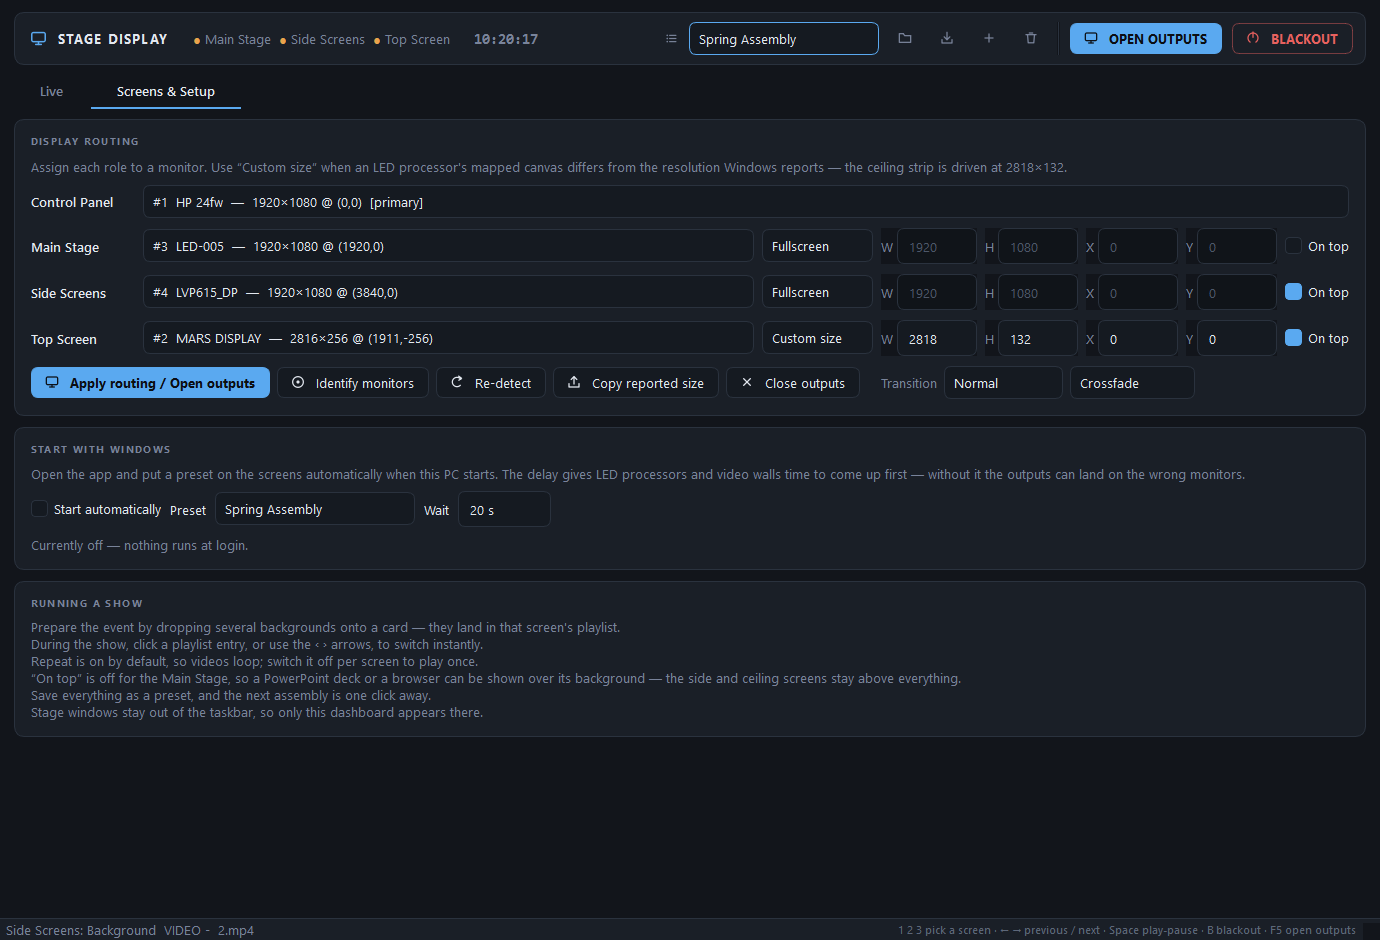
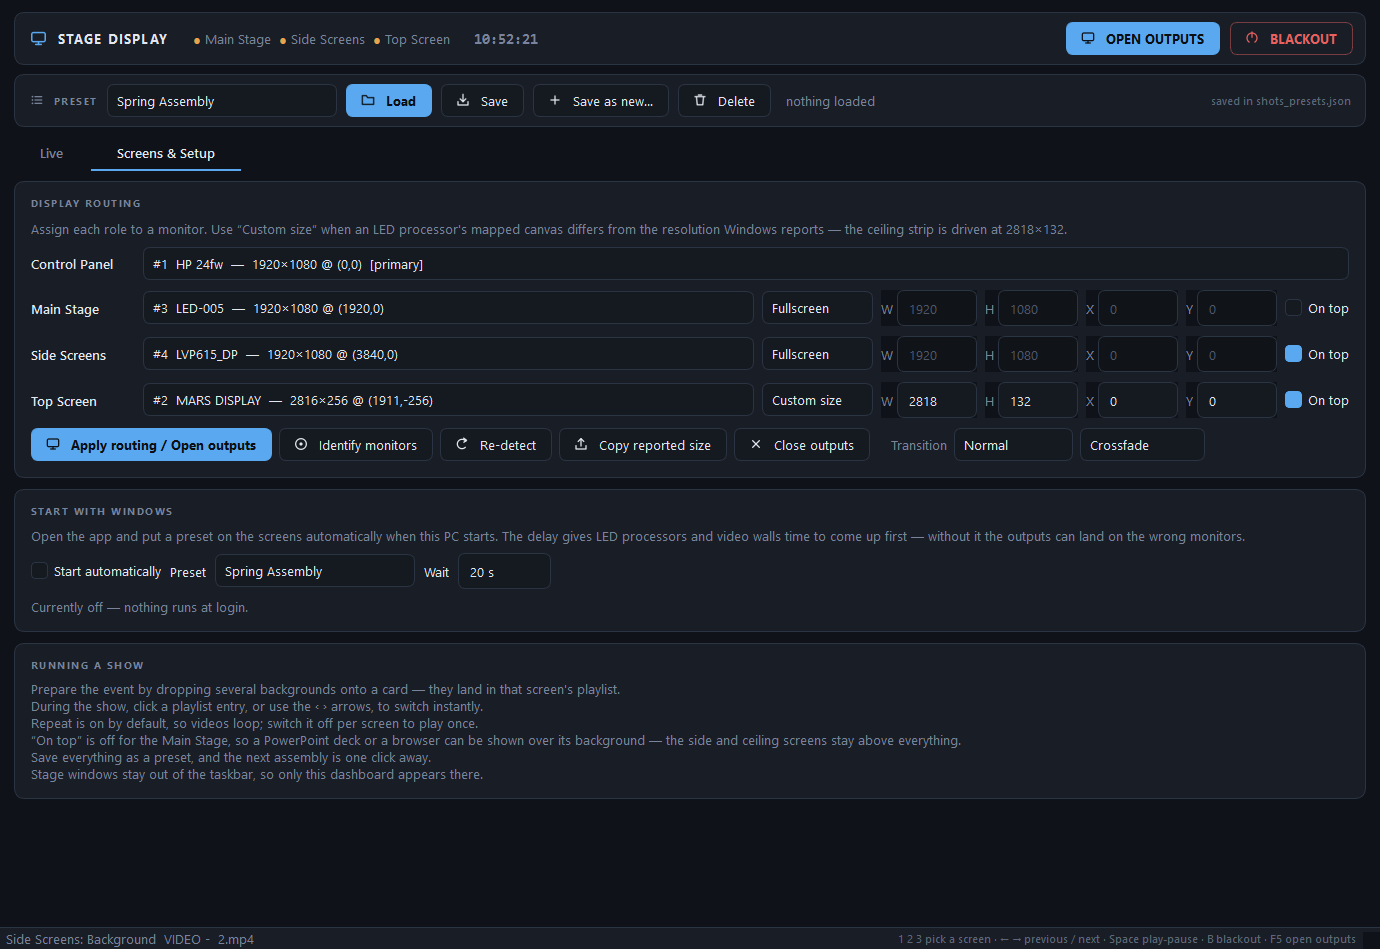
Transition when a preset is loaded, and make the preset controls legible
Loading a preset cut hard to the new pictures. _restore_media_to_outputs()
called load_media(), which is the no-transition path, so the one moment the
whole stage changes at once was the one moment nothing faded. It now uses the
chosen transition - except on a screen whose window has only just been opened,
where there is no previous picture to dissolve from.

Two bugs found on the way there, both of which also cost quality on stage:

- _ensure_output() called set_always_on_top() unconditionally, and that always
  ran setWindowFlags(), which destroys and recreates the native window. So every
  Apply rebuilt all three stage windows - a visible flicker mid-show, and it
  wiped the rendered content a crossfade needs to snapshot. It is now a no-op
  when the flag already matches, and show_with_geometry() likewise returns early
  when the window is already exactly where it is being asked to go.
- The test suites shared QSettings with the real app, so a test run could
  silently rewrite the operator's transition preference. Scope names are module
  constants now and every suite overrides them.

Presets used to be four unlabelled icons in the header: no way to tell which one
loaded and which overwrote, or what was on the screens. They get their own row
with worded buttons and a state line - "Fonebi is on the screens" in green, or
"Fonebi - changed, not saved" in amber once anything is touched.

Also a general pass on the theme: deeper ground so cards separate from it,
[…]

diff --git a/main.py b/main.py
@@ -217,6 +217,11 @@ DEFAULT_TOP_HEIGHT = 132
 FADE_PRESETS = (("Off (hard cut)", 0), ("Fast", 240), ("Normal", 500), ("Slow", 1000))
 DEFAULT_FADE_MS = 500
 
+# QSettings scope. Tests override these so a test run cannot rewrite the
+# operator's real preferences.
+SETTINGS_ORG = "StageDisplayController"
+SETTINGS_APP = "StageDisplayController"
+
 TRANSITION_CROSSFADE = "crossfade"
 TRANSITION_DIP = "dip"
 TRANSITION_STYLES = (
@@ -225,11 +230,11 @@ TRANSITION_STYLES = (
 )
 
 # Palette - a quiet, low-contrast dark theme so the stage stays the bright thing.
-CLR_BG = "#12151b"
-CLR_CARD = "#1a1f27"
+CLR_BG = "#0f1218"
+CLR_CARD = "#191e26"
 CLR_INPUT = "#151a21"
 CLR_HOVER = "#242b36"
-CLR_LINE = "#2a323e"
+CLR_LINE = "#2b3442"
 CLR_TEXT = "#e3e8f0"
 CLR_MUTED = "#79839a"
 CLR_ACCENT = "#5aa9f0"
@@ -926,7 +931,7 @@ QFrame#card, QFrame#bar {{
 /* The card the keyboard acts on. */
 QFrame#card[active="true"] {{
     border: 1px solid {CLR_ACCENT};
-    background: #1c222c;
+    background: #1b2230;
 }}
 QLabel#cardTitle {{ font-size: 14px; font-weight: 700; }}
 QLabel#cardHint {{ color: {CLR_MUTED}; }}
@@ -934,8 +939,9 @@ QLabel#sectionTitle {{
     color: {CLR_MUTED};
     font-size: 10px;
     font-weight: 700;
-    letter-spacing: 1.4px;
+    letter-spacing: 1.5px;
 }}
+QLabel#cardSub {{ color: {CLR_MUTED}; font-size: 11px; }}
 QLabel#brand {{ font-size: 13px; font-weight: 800; letter-spacing: 1.2px; }}
 QLabel#clock {{
     color: {CLR_MUTED};
@@ -978,7 +984,7 @@ QPushButton {{
     background: {CLR_INPUT};
     border: 1px solid {CLR_LINE};
     border-radius: 7px;
-    padding: 6px 12px;
+    padding: 7px 13px;
 }}
 QPushButton:hover {{ background: {CLR_HOVER}; border-color: #3b4657; }}
 QPushButton:pressed {{ background: #11151b; }}
@@ -1385,9 +1391,14 @@ class BaseOutputWindow(QWidget):
         whole monitor. A custom rectangle is what makes LED walls work when
         Windows reports a resolution that differs from the mapped canvas.
         """
+        target = rect if rect is not None else screen.geometry()
+        if (self.isVisible() and self._screen is screen and self._geometry == rect
+                and self.geometry() == target):
+            self.raise_()      # already exactly here; re-showing would only flicker
+            return
+
         self._screen = screen
         self._geometry = rect
-        target = rect if rect is not None else screen.geometry()
 
         # Leaving fullscreen first makes a cross-monitor move reliable on Windows.
         if self.isFullScreen() or self.isVisible():
@@ -1409,6 +1420,8 @@ class BaseOutputWindow(QWidget):
         flags = self.BASE_FLAGS
         if on_top:
             flags |= Qt.WindowStaysOnTopHint
+        if flags == self.windowFlags():
+            return   # setWindowFlags would destroy and rebuild the window for nothing
         was_visible = self.isVisible()
 
         # setWindowFlags destroys and recreates this window, which leaves the
@@ -2167,7 +2180,7 @@ class OutputCard(QFrame):
         name = QLabel(title)
         name.setObjectName("cardTitle")
         hint = QLabel(subtitle)
-        hint.setObjectName("cardHint")
+        hint.setObjectName("cardSub")
         title_box.addWidget(name)
         title_box.addWidget(hint)
         header.addLayout(title_box)
@@ -2915,13 +2928,17 @@ class ControlPanel(QMainWindow):
         self.routing_rows: Dict[str, RoutingRow] = {}
         self.presets = PresetStore()
         self.active_role = ROLE_MAIN
-        self.settings = QSettings("StageDisplayController", "StageDisplayController")
+        self.settings = QSettings(SETTINGS_ORG, SETTINGS_APP)
+        self._freshly_opened: set = set()
+        self.loaded_preset: Optional[str] = None
+        self._preset_dirty = False
 
         central = QWidget()
         root = QVBoxLayout(central)
         root.setContentsMargins(14, 12, 14, 8)
         root.setSpacing(9)
         root.addWidget(self._build_header())
+        root.addWidget(self._build_preset_bar())
 
         self.tabs = QTabWidget()
         self.tabs.addTab(self._build_live_tab(), "  Live  ")
@@ -2938,6 +2955,7 @@ class ControlPanel(QMainWindow):
         self._refresh_preset_combo()
         self._load_fade_setting()
         self._load_autostart_state()
+        self._describe_preset_state()
         self._update_output_status()
         self._install_shortcuts()
         self.set_active_role(ROLE_MAIN)
@@ -2988,33 +3006,6 @@ class ControlPanel(QMainWindow):
 
         layout.addStretch(1)
 
-        # --- presets ------------------------------------------------------- #
-        preset_label = QLabel()
-        preset_label.setPixmap(Icons.get("list", CLR_MUTED, 15).pixmap(15, 15))
-        preset_label.setToolTip("Presets")
-        layout.addWidget(preset_label)
-
-        self.preset_combo = QComboBox()
-        self.preset_combo.setMinimumWidth(190)
-        self.preset_combo.setToolTip("Saved show presets")
-        layout.addWidget(self.preset_combo)
-
-        for icon_name, tip, handler in (
-            ("folder", "Load the selected preset", self._load_preset),
-            ("save", "Save / overwrite the selected preset", self._save_preset),
-            ("plus", "Save the current setup as a new preset", self._save_preset_as),
-            ("trash", "Delete the selected preset", self._delete_preset),
-        ):
-            button = icon_button(icon_name, tip, CLR_MUTED, 16)
-            button.setObjectName("ghost")
-            button.clicked.connect(handler)
-            layout.addWidget(button)
-
-        separator = QFrame()
-        separator.setFrameShape(QFrame.VLine)
-        separator.setStyleSheet(f"color: {CLR_LINE};")
-        layout.addWidget(separator)
-
         # --- global actions ------------------------------------------------ #
         open_btn = QPushButton("  OPEN OUTPUTS")
         open_btn.setObjectName("primary")
@@ -3032,6 +3023,87 @@ class ControlPanel(QMainWindow):
         # "Close outputs" deliberately lives on the Screens tab: an X in the
         # header corner reads like "quit the app" during a show.
         return bar
+
+    def _build_preset_bar(self) -> QWidget:
+        """
+        Presets get their own labelled row.
+
+        As four unlabelled icons in the header this was guesswork - which one
+        loads, which one overwrites, and what is on the screens right now. Words
+        and a state line answer all three.
+        """
+        bar = QFrame()
+        bar.setObjectName("bar")
+        layout = QHBoxLayout(bar)
+        layout.setContentsMargins(14, 9, 14, 9)
+        layout.setSpacing(9)
+
+        glyph = QLabel()
+        glyph.setPixmap(Icons.get("list", CLR_MUTED, 16).pixmap(16, 16))
+        layout.addWidget(glyph)
+
+        caption = QLabel("PRESET")
+        caption.setObjectName("sectionTitle")
+        layout.addWidget(caption)
+
+        self.preset_combo = QComboBox()
+        self.preset_combo.setMinimumWidth(230)
+        self.preset_combo.setToolTip("Saved setups: routing, playlists, marquee, volumes")
+        layout.addWidget(self.preset_combo)
+
+        load_btn = QPushButton("  Load")
+        load_btn.setObjectName("primary")
+        load_btn.setIcon(Icons.get("folder", "#0b0e13", 15))
+        load_btn.setToolTip("Put the selected preset on the screens")
+        load_btn.clicked.connect(self._load_preset)
+        layout.addWidget(load_btn)
+
+        save_btn = QPushButton("  Save")
+        save_btn.setIcon(Icons.get("save", CLR_TEXT, 15))
+        save_btn.setToolTip("Overwrite the selected preset with what is set up now")
+        save_btn.clicked.connect(self._save_preset)
+        layout.addWidget(save_btn)
+
+        new_btn = QPushButton("  Save as new…")
+        new_btn.setIcon(Icons.get("plus", CLR_TEXT, 15))
+        new_btn.setToolTip("Store the current setup under a new name")
+        new_btn.clicked.connect(self._save_preset_as)
+        layout.addWidget(new_btn)
+
+        delete_btn = QPushButton("  Delete")
+        delete_btn.setIcon(Icons.get("trash", CLR_TEXT, 15))
+        delete_btn.setToolTip("Remove the selected preset")
+        delete_btn.clicked.connect(self._delete_preset)
+        layout.addWidget(delete_btn)
+
+        layout.addSpacing(6)
+        self.preset_state = QLabel()
+        self.preset_state.setObjectName("cardHint")
+        layout.addWidget(self.preset_state)
+
+        layout.addStretch(1)
+        where = QLabel(f"saved in {os.path.basename(PRESET_FILE)}")
+        where.setObjectName("keyHint")
+        where.setToolTip(PRESET_FILE)
+        layout.addWidget(where)
+        return bar
+
+    def _mark_preset_dirty(self) -> None:
+        if not self._preset_dirty:
+            self._preset_dirty = True
+            self._describe_preset_state()
+
+    def _describe_preset_state(self) -> None:
+        if self.loaded_preset is None:
+            self.preset_state.setText("nothing loaded")
+            self.preset_state.setStyleSheet(f"color: {CLR_MUTED};")
+            return
+        if self._preset_dirty:
+            self.preset_state.setText(f"●  {self.loaded_preset} — changed, not saved")
+            self.preset_state.setStyleSheet(f"color: {CLR_WARN}; font-weight: 600;")
+        else:
+            self.preset_state.setText(f"●  {self.loaded_preset} is on the screens")
+            self.preset_state.setStyleSheet(f"color: {CLR_OK}; font-weight: 600;")
 
     def _build_live_tab(self) -> QWidget:
         page = QWidget()
@@ -3067,6 +3139,9 @@ class ControlPanel(QMainWindow):
         )
         self.top_card.marqueeStart.connect(self._start_marquee)
         self.top_card.marqueeStop.connect(self._stop_marquee)
+        for changed in (self.top_card.marqueeTextChanged, self.top_card.marqueeColorChanged,
+                        self.top_card.marqueeSpeedChanged, self.top_card.colorRequested):
+            changed.connect(lambda *_a: self._mark_preset_dirty())
         layout.addWidget(self.top_card, 1)
 
         self.cards: Dict[str, OutputCard] = {
@@ -3477,6 +3552,7 @@ class ControlPanel(QMainWindow):
                 )
                 return
             card.show_loaded(path)
+            self._mark_preset_dirty()
             self.statusBar().showMessage(f"{ROLE_LABELS[role]}: {os.path.basename(path)}", 6000)
 
         card.loadRequested.connect(on_load)
@@ -3486,6 +3562,9 @@ class ControlPanel(QMainWindow):
             )
         )
         card.scaleModeChanged.connect(lambda mode: output() and output().set_scale_mode(mode))
+        for changed in (card.scaleModeChanged, card.repeatChanged, card.muteChanged,
+                        card.queueRequested, card.volumeChanged):
+            changed.connect(lambda *_a: self._mark_preset_dirty())
         card.playRequested.connect(lambda: output() and output().engine.play())
         card.pauseRequested.connect(lambda: output() and output().engine.pause())
         card.stopRequested.connect(lambda: output() and output().engine.stop())
@@ -3677,6 +3756,8 @@ class ControlPanel(QMainWindow):
         if control_screen is not None:
             self._move_self_to(control_screen)
 
+        self._freshly_opened = set()   # filled by _ensure_output below
+
         specs = (
             (ROLE_MAIN, StandardOutputWindow, "Main Stage Output", self.main_card),
             (ROLE_SIDES, StandardOutputWindow, "Side Screens Output", self.sides_card),
@@ -3712,6 +3793,7 @@ class ControlPanel(QMainWindow):
             return None
 
         if window is None:
+            self._freshly_opened.add(role)   # nothing on it yet, so do not fade in
             window = cls(title)
             window.set_scale_mode(card.current_scale_mode())
             window.closedByUser.connect(
@@ -3734,13 +3816,26 @@ class ControlPanel(QMainWindow):
         return window
 
     def _restore_media_to_outputs(self) -> None:
-        """Re-send whatever each card has loaded, e.g. after reopening a window."""
+        """
+        Re-send whatever each card has loaded - after reopening a window, or
+        when a preset changes every screen at once.
+
+        A screen that was already showing something transitions into the new
+        picture; one whose window has only just been created cuts straight in,
+        because there is nothing to dissolve away from.
+        """
         for role, card in self.cards.items():
             window = getattr(self, self.OUTPUT_ATTRS[role], None)
             path = card.current_path()
-            if window is not None and path and os.path.isfile(path):
-                window.set_scale_mode(card.current_scale_mode())
-                window.load_media(path)
+            if window is None or not path or not os.path.isfile(path):
+                continue
+            window.set_scale_mode(card.current_scale_mode())
+            fade = 0 if role in self._freshly_opened else self.fade_ms()
+            try:
+                window.present(path, fade, self.fade_style())
+            except MediaProblem as problem:
+                self._report_media_problem(role, path, problem)
+                card.reset_file()
 
     def _on_output_closed(self, role: str, title: str) -> None:
         """
@@ -4014,6 +4109,9 @@ class ControlPanel(QMainWindow):
             QMessageBox.information(self, "No preset", "Save a preset first, then it can be loaded.")
             return
         self._apply_preset(payload)
+        self.loaded_preset = name
+        self._preset_dirty = False
+        self._describe_preset_state()
         self.statusBar().showMessage(f"Preset loaded: {name}", 6000)
 
     @Slot()
@@ -4056,7 +4154,11 @@ class ControlPanel(QMainWindow):
         if error:
             QMessageBox.critical(self, "Could not save presets", error)
             return
+        if select:
+            self.loaded_preset = select
+            self._preset_dirty = False
         self._refresh_preset_combo(select)
+        self._describe_preset_state()
         self.statusBar().showMessage(f"Presets saved to {PRESET_FILE}", 6000)
 
     # ------------------------------------------------------------ shutdown -- #

diff --git a/README.md b/README.md
@@ -43,7 +43,9 @@ Python with PySide6 (Qt 6). One operator dashboard drives three stage outputs.
 - **Marquee** — text, typeface, pixel size, colour and scroll speed, drawn over
   live video via a `QGraphicsScene`.
 - **Presets** — routing, geometry, playlists, scaling, volumes and marquee
-  settings saved as JSON.
+  settings saved as JSON, on their own labelled row that shows which preset is
+  on the screens and whether it has unsaved changes. Loading one transitions
+  every screen rather than cutting.
 - **Start with Windows** — optionally open the app at login and put a chosen
   preset on the screens, after a delay that lets LED processors finish booting.
 - **Blackout** — clears every stage screen at once.
@@ -97,6 +99,10 @@ to dissolve *from*. It works for image→video, video→video and video→image 
 
 **Through black** fades out, swaps while nothing is visible, and fades back in.
 Blackouts always use this — there is nothing to dissolve into.
+
+Loading a preset transitions too. A screen whose window has only just been
+opened cuts straight in, because there is no previous picture to dissolve away
+from.
 
 Mechanically each output owns a black top-level window, faded with
 `windowOpacity`. Two things that had to be right: the overlay is constructed
